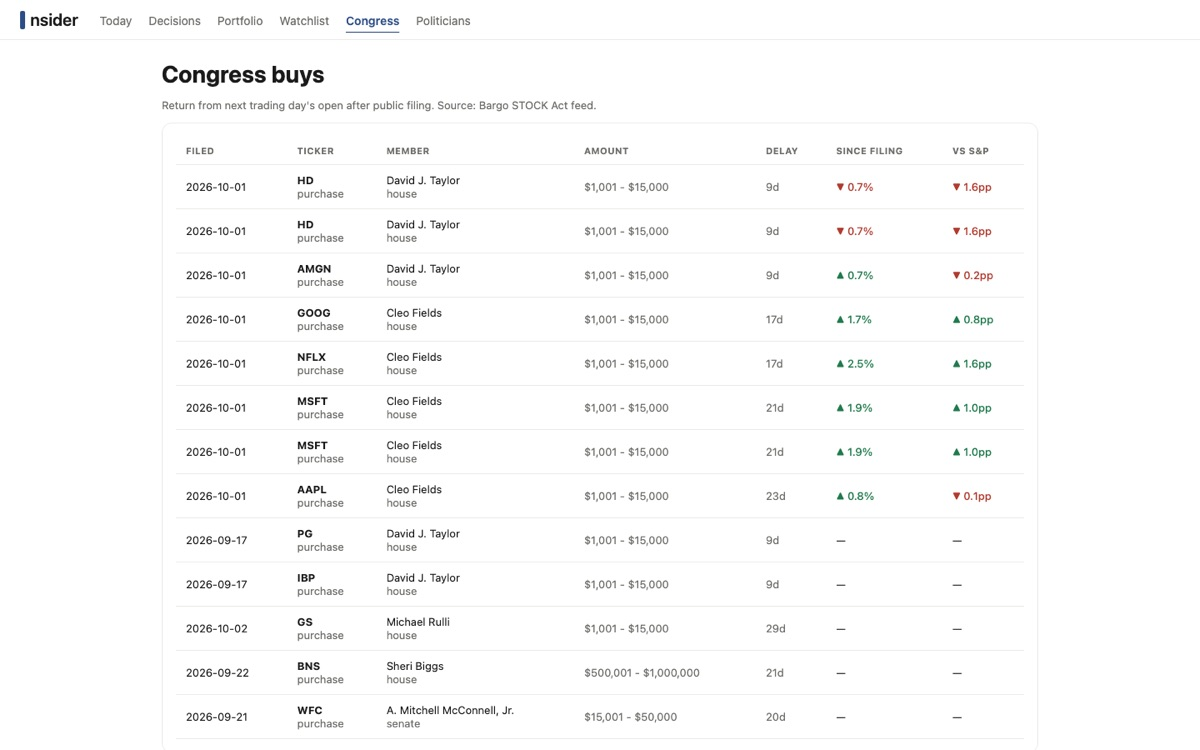
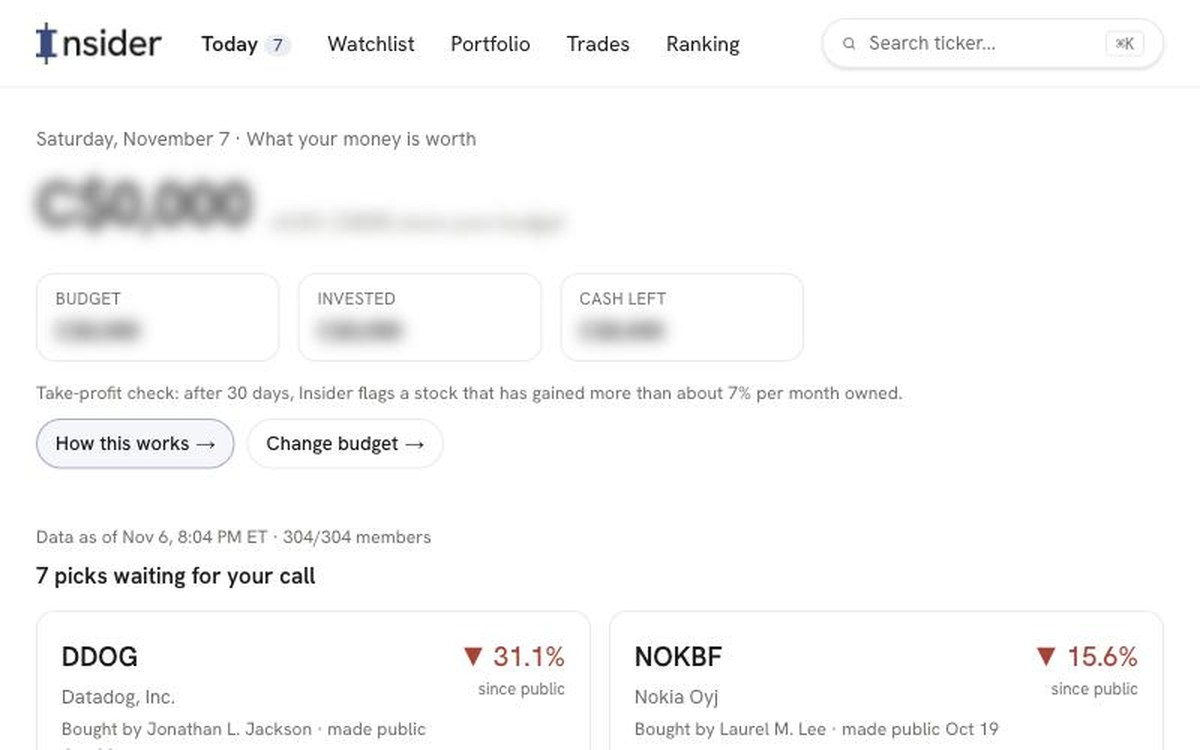
Refresh Insider screenshot and link Boxer live app
Claude-Session: https://claude.ai/code/session_01HQszRigciPkG13zWr2Waw3

diff --git a/index.html b/index.html
@@ -149,7 +149,7 @@
     <h2 class="heading"><span class="num">03</span>Some things I've built</h2>
 
     <div class="project">
-      <a class="img" href="https://insider-1shot.vercel.app/" aria-label="Open the Insider app"><img src="img/insider.jpg" alt="Insider app showing a table of recent Congress stock disclosures" loading="lazy"></a>
+      <a class="img" href="https://insider-1shot.vercel.app/" aria-label="Open the Insider app"><img src="img/insider.jpg" alt="Insider app home page showing picks based on recent Congress stock disclosures" loading="lazy"></a>
       <div class="info">
         <p class="overline">Side project · built end to end</p>
         <h3>Insider</h3>
@@ -171,12 +171,13 @@
     </div>
 
     <div class="project">
-      <div class="img"><img src="img/boxer.jpg" alt="Boxer wireframe showing upcoming movies with predicted rating and box office ranges" loading="lazy"></div>
+      <a class="img" href="https://boxerapp.vercel.app/" aria-label="Open the Boxer app"><img src="img/boxer.jpg" alt="Boxer app showing a film with predicted rating and box office ranges" loading="lazy"></a>
       <div class="info">
         <p class="overline">Side project · in design</p>
         <h3>Boxer</h3>
         <div class="desc">Predicts a Hollywood film's IMDb rating and worldwide box office as ranges, 30 days before release. Run as a real software product by a team of AI agents I set up, each with its own role in strategy, design, architecture, engineering, QA and project management, working from a PRD and decision log with my approval at every gate.</div>
         <ul class="tech"><li>Python</li><li>Forecasting</li><li>PRD</li><li>Wireframes</li></ul>
+        <p class="live"><a href="https://boxerapp.vercel.app/"><span class="lg">Click the screenshot to try</span><span class="sm">Try</span> the live app ↗</a></p>
       </div>
     </div>
 
